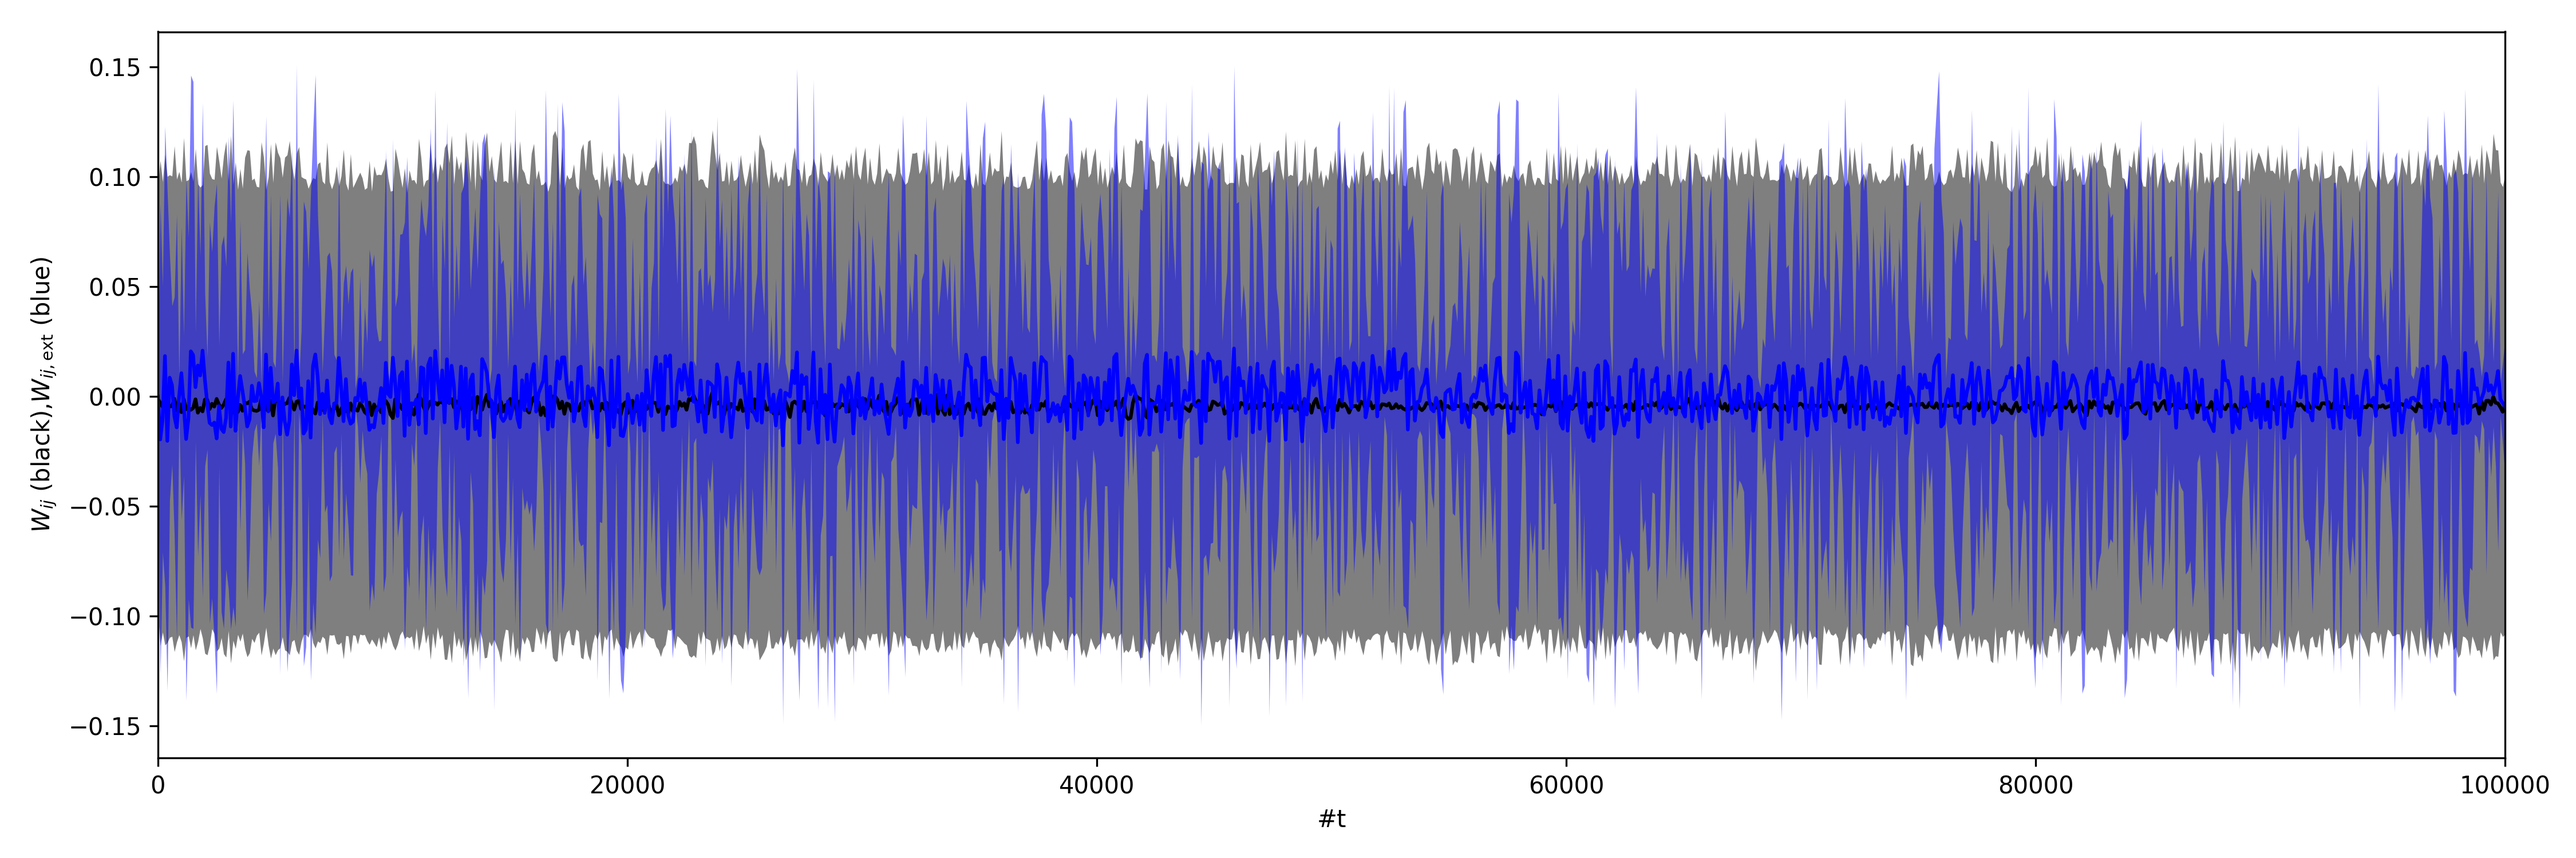
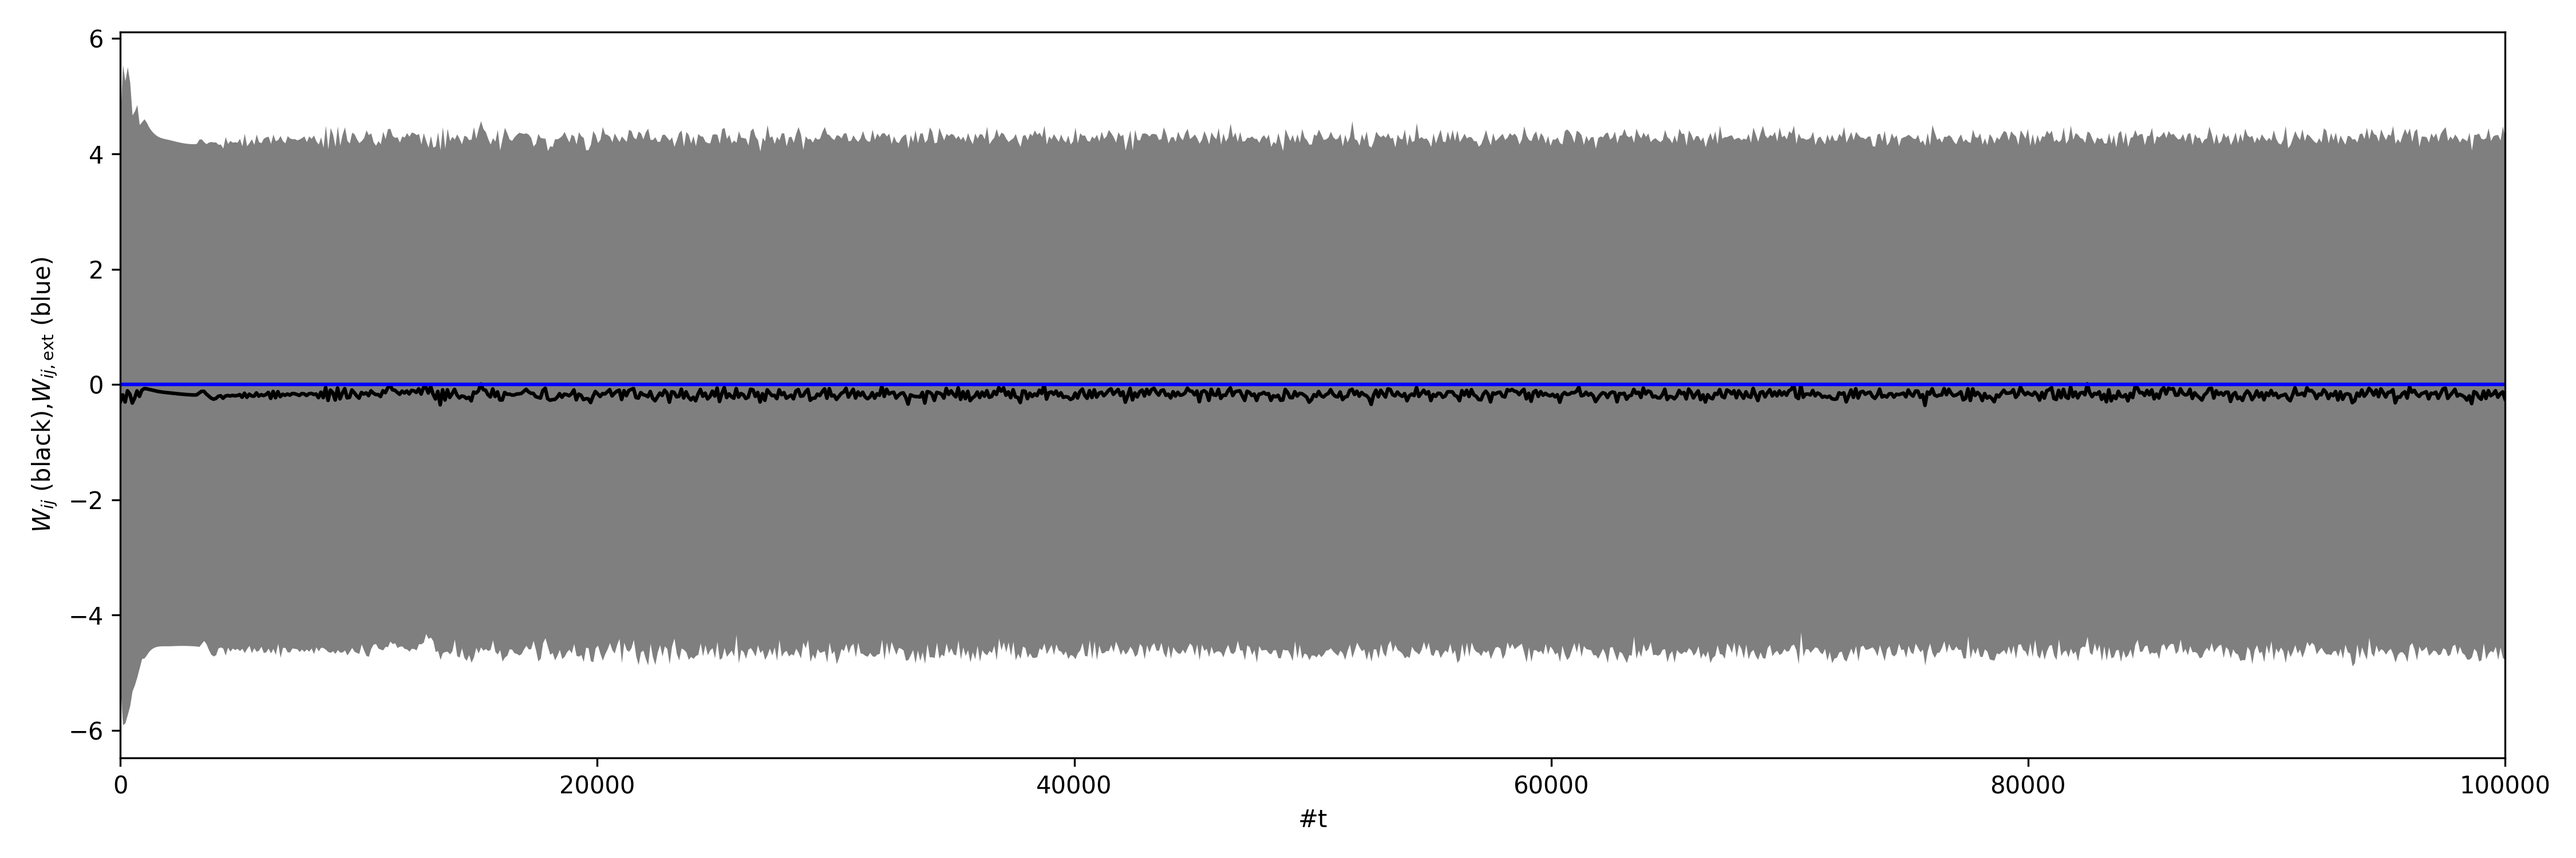
.

diff --git a/code/rnn_prox_dist_non_bin/rnn_prox_dist_non_bin.py b/code/rnn_prox_dist_non_bin/rnn_prox_dist_non_bin.py
@@ -4,7 +4,7 @@ import numpy as np
 #import matplotlib.pyplot as plt
 from tqdm import tqdm
 
-#import pdb
+import pdb
 
 from grammar_data_reader import *
 
@@ -17,8 +17,25 @@ import sys
 
 
 
+def h(X, y_post, y, y_mean, a):
+	f = a*(2.+a*X*(1.-2*y_post))*(2*y_post-1.+2.*a*X*(1.-2.*y_post)*y_post)
+	return np.outer(f,y-y_mean)
 
-def h(x_post_pot,x_pre,x_pre_mean,a):
+def dgain(X,y_post,th,gain,l1,l2):
+	std = 1./(-l2*2.)**.5
+	mean = -l1/(2.*l2)
+	#theta = (1-2.*y_post)+y_post*(1.-y_post)*(l1+2.*l2*y_post)
+	#return 1./gain + (X-th)*theta
+	return std**2 - (y_post - mean)**2
+
+def dthresh(y_post,gain,l1,l2):
+	mean = -l1/(2.*l2)
+	#theta = (1-2.*y_post)+y_post*(1.-y_post)*(l1+2.*l2*y_post)
+	#return -gain*theta
+	return y_post - mean
+	
+
+def h_approx(x_post_pot,x_pre,x_pre_mean,a):
 
 	#f = (x_post_pot*np.tanh(a)/a - np.tanh(x_post_pot))/a**3
 	#f = (x_post_pot**2)*(a-x_post_pot)
@@ -30,9 +47,9 @@ def h(x_post_pot,x_pre,x_pre_mean,a):
 	#return np.outer(f,x_pre-x_pre_mean)# - np.outer(x_pre,x_post)
 	return np.outer(f,x_pre)# - np.outer(x_pre,x_post)
 
-def act(x,gain):
+def act(x,gain,th):
 
-	return (np.tanh(gain*x/2.)+1.)/2.
+	return (np.tanh(gain*(x-th)/2.)+1.)/2.
 
 
 def main(x_e, W, params_path = "./sim_parameters/no_input.csv",gramm_path = "../../misc_data/grammar_mat_simple.ppm", letter_map_path = "../../misc_data/letter_mapping_simple.csv" , path="./data/sim_data"):
@@ -56,8 +73,8 @@ def main(x_e, W, params_path = "./sim_parameters/no_input.csv",gramm_path = "../
 		p_mat_node_letter[inp_node_ind[k],k] = 1.
 	##
 	'''
-	N_ext = 300
-	N_letter_nodes = 300
+	N_ext = 9
+	N_letter_nodes = 9
 
 	param_dict = {}
 
@@ -77,16 +94,22 @@ def main(x_e, W, params_path = "./sim_parameters/no_input.csv",gramm_path = "../
 
 	mu_learn_ext = float(param_dict["mu_learn_ext"])
 	mu_learn_int = float(param_dict["mu_learn_int"])
+	mu_learn_gain = float(param_dict["mu_learn_gain"])
+	mu_learn_thresh = float(param_dict["mu_learn_thresh"])
+
+	mean_act_target = float(param_dict["mean_act_target"])
+	std_act_target = float(param_dict["std_act_target"])
+	# Parameters of target function exp(l1*x + l2*x**2):
+	l1 = mean_act_target/std_act_target**2
+	l2 = -1./(2.*std_act_target**2)
 
 	mu_act_av = float(param_dict["mu_act_av"])
 
-	mu_hom = float(param_dict["mu_hom"])
 
-
-	gain_neuron = float(param_dict["gain_neuron"])
-
-	act_fix = float(param_dict["act_fix"])
-	a_hebb = -np.log(1./act_fix - 1.)/gain_neuron
+	gain_neuron = np.ones(N_e)*float(param_dict["gain_neuron_init"])
+	thresh_neuron = np.ones(N_e)*float(param_dict["thresh_neuron_init"])
+	#act_fix = float(param_dict["act_fix"])
+	#a_hebb = -np.log(1./act_fix - 1.)/gain_neuron
 
 	#print(a_hebb)
 
@@ -107,6 +130,7 @@ def main(x_e, W, params_path = "./sim_parameters/no_input.csv",gramm_path = "../
 	n_t_rec = int(n_t/n_t_skip)
 	##
 
+	
 
 	#print ("Initialize Ext->I")
 	if w_std_pre_ext_input == 0:
@@ -120,8 +144,8 @@ def main(x_e, W, params_path = "./sim_parameters/no_input.csv",gramm_path = "../
 
 	x_ext_mean = np.zeros((N_letter_nodes))
 
-	std_ext = np.ones(N_ext)
-	std_ext[0] = 5.
+	std_ext = np.ones(N_ext)*0.
+	#std_ext[0] = 5.
 	'''
 	M_mod_rand_inp = np.eye(N_ext)
 	M_mod_rand_inp[:,0] = np.array([1.,1.,0.,0.,0.,0.,0.,0.,0.])
@@ -159,6 +183,9 @@ def main(x_e, W, params_path = "./sim_parameters/no_input.csv",gramm_path = "../
 
 	W_eext_rec = np.ndarray((n_t_rec,N_e,N_ext))
 
+	gain_rec = np.ndarray((n_t_rec,N_e))
+	thresh_rec = np.ndarray((n_t_rec,N_e))
+
 	I_ee_rec = np.ndarray((n_t_rec,N_e))
 	I_eext_rec = np.ndarray((n_t_rec,N_e))
 
@@ -169,7 +196,7 @@ def main(x_e, W, params_path = "./sim_parameters/no_input.csv",gramm_path = "../
 
 		###CUSTOM_COMMANDS_FLAG###
 		
-		'''
+		''' 
 		## Generate Markov Grammar Input
 		p_next = np.dot(Markov_Gramm,x_letter_node)
 		next_letter_node = np.random.choice(N_letter_nodes,p=p_next)
@@ -192,17 +219,21 @@ def main(x_e, W, params_path = "./sim_parameters/no_input.csv",gramm_path = "../
 		I_eext = np.dot(W_eext,x_ext)
 		I = I_ee + I_eext
 
-		x_e_new = act(I,gain_neuron)
+		x_e_new = act(I,gain_neuron,thresh_neuron)
 
 		x_e_mean += mu_act_av*(x_e_new - x_e_mean)
 		x_ext_mean += mu_act_av*(x_ext - x_ext_mean)
 
 		#pdb.set_trace()
+
 		if int_plast:
-			W += mu_learn_int*h(I,x_e,x_e_mean,a_hebb)
+			W += mu_learn_int*h(I,x_e_new,x_e,x_e_mean,gain_neuron)
 			W[range(N_e),range(N_e)] = 0.
+			gain_neuron += mu_learn_gain*dgain(I,x_e_new,thresh_neuron,gain_neuron,l1,l2)
+			gain_neuron = np.maximum(gain_neuron,0.01)
+			thresh_neuron += mu_learn_thresh*dthresh(x_e_new,gain_neuron,l1,l2)
 		if ext_plast:
-			W_eext += mu_learn_ext*h(I,x_ext,x_ext_mean,a_hebb)
+			W_eext += mu_learn_ext*h(I,x_e_new,x_ext,x_ext_mean,gain_neuron)
 		#W = (W.T / W.std(axis=1)).T
 		
 
@@ -214,6 +245,8 @@ def main(x_e, W, params_path = "./sim_parameters/no_input.csv",gramm_path = "../
 			x_ext_mean_rec[int(t/n_t_skip),:] = x_ext_mean
 			W_rec[int(t/n_t_skip),:,:] = W
 			W_eext_rec[int(t/n_t_skip),:,:] = W_eext
+			gain_rec[int(t/n_t_skip),:] = gain_neuron
+			thresh_rec[int(t/n_t_skip),:] = thresh_neuron
 			I_ee_rec[int(t/n_t_skip),:] = I_ee
 			I_eext_rec[int(t/n_t_skip),:] = I_eext
 		
@@ -225,7 +258,7 @@ def main(x_e, W, params_path = "./sim_parameters/no_input.csv",gramm_path = "../
 	#plt.plot(x_e_rec)
 	#plt.show()
 
-	np.savez(path,x_e_rec=x_e_rec,x_e_mean_rec=x_e_mean_rec,x_ext_rec=x_ext_rec,x_ext_mean_rec=x_ext_mean_rec,W_rec=W_rec,W_eext_rec=W_eext_rec,I_ee_rec=I_ee_rec,I_eext_rec=I_eext_rec,param_dict=param_dict)
+	np.savez(path,x_e_rec=x_e_rec,x_e_mean_rec=x_e_mean_rec,x_ext_rec=x_ext_rec,x_ext_mean_rec=x_ext_mean_rec,W_rec=W_rec,W_eext_rec=W_eext_rec,gain_rec=gain_rec,thresh_rec=thresh_rec,I_ee_rec=I_ee_rec,I_eext_rec=I_eext_rec,param_dict=param_dict)
 	
 
 	#pdb.set_trace()

diff --git a/code/rnn_prox_dist_non_bin/single_weight_gain_and_threshold_adaptation.py b/code/rnn_prox_dist_non_bin/single_weight_gain_and_threshold_adaptation.py
@@ -1,0 +1,90 @@
+#!/usr/bin/env python3
+
+import numpy as np
+import matplotlib.pyplot as plt
+
+from tqdm import tqdm
+import pdb
+
+mu_w = 0.001
+mu_a = 0.001
+mu_b = 0.001
+
+
+
+mu_y_pre = .5
+std_y_pre = .1
+
+y_target = 0.5
+std_target = 0.1
+
+n_t = 10000
+n_trials = 50
+
+rec = np.ndarray((n_trials,n_t,3))
+
+def s(x,a,b):
+
+	return (np.tanh(a*(x-b)/2.)+1.)/2.
+
+def dw(x,a,b,y_pre,y_pre_mean):
+
+	G = 2. + a*x*(1.-2*s(x,a,b))
+	H = 2.*s(x,a,b) - 1. + 2.*a*x*(1.-s(x,a,b))*s(x,a,b)
+	return 2.*a*G*H*(y_pre - y_pre_mean)
+
+def da(x,a,b):
+
+	return std_target**2 - (s(x,a,b) - y_target)**2
+
+def db(x,a,b):
+
+	return s(x,a,b) - y_target
+
+
+
+def F(phi):
+
+	r = np.ndarray((3))
+
+	y_pre = np.random.normal(mu_y_pre,std_y_pre)
+
+	x = y_pre*phi[0]
+	a = phi[1]
+	b = phi[2]
+
+	r[0] = mu_w * dw(x,a,b,y_pre,mu_y_pre)
+	r[1] = mu_a * da(x,a,b)
+	r[2] = mu_b * db(x,a,b)
+
+	return r
+
+
+for k in tqdm(range(n_trials)):
+
+	v = (np.random.rand(3) - .5)*2.
+
+	for t in range(n_t):
+
+		v += F(v)
+
+		rec[k,t,:] = v
+
+
+pdb.set_trace()
+import matplotlib.pyplot as plt
+from mpl_toolkits.mplot3d import Axes3D
+fig = plt.figure()
+ax = fig.add_subplot(111, projection='3d')
+
+
+for k in range(n_trials):
+	plt.plot(rec[k,:,0],rec[k,:,1],rec[k,:,2])
+
+ax.set_xlabel("w")
+ax.set_ylabel("a")
+ax.set_zlabel("b")
+
+plt.show()
+
+pdb.set_trace()

diff --git a/code/rnn_prox_dist_non_bin/data_analysis_script.py b/code/rnn_prox_dist_non_bin/data_analysis_script.py
@@ -22,7 +22,7 @@ if not os.path.isdir("./plots/"+file):
 	os.makedirs("./plots/"+file)
 
 
-x,x_mean,x_ext,x_ext_mean,W_ee,W_eext,I_ee,I_eext,p = load_data("./data/"+file+".npz")
+x,x_mean,x_ext,x_ext_mean,W_ee,W_eext,gain,thresh,I_ee,I_eext,p = load_data("./data/"+file+".npz")
 #x2,W2,I2,p2 = load_data("./data/x_e_rec_2.npy","./data/W_rec_2.npy","./data/I_ee_rec_2.npy","./data/parameters_2.p")
 
 t_ax = np.linspace(0.,p["n_t"],p["n_t_rec"])

diff --git a/code/rnn_prox_dist_non_bin/data_analysis.py b/code/rnn_prox_dist_non_bin/data_analysis.py
@@ -14,11 +14,13 @@ def load_data(path):
 	x_ext_mean = dat['x_ext_mean_rec']
 	W = dat['W_rec']
 	W_eext = dat['W_eext_rec']
+	gain = dat['gain_rec']
+	thresh = dat['thresh_rec']
 	I_ee = dat['I_ee_rec']
 	I_eext = dat['I_eext_rec']
 	p = dat['param_dict'].tolist()
 	
-	return x,x_mean,x_ext,x_ext_mean,W,W_eext,I_ee,I_eext,p
+	return x,x_mean,x_ext,x_ext_mean,W,W_eext,gain,thresh,I_ee,I_eext,p
 
 def h(x_post_pot,x_pre,a):
 
